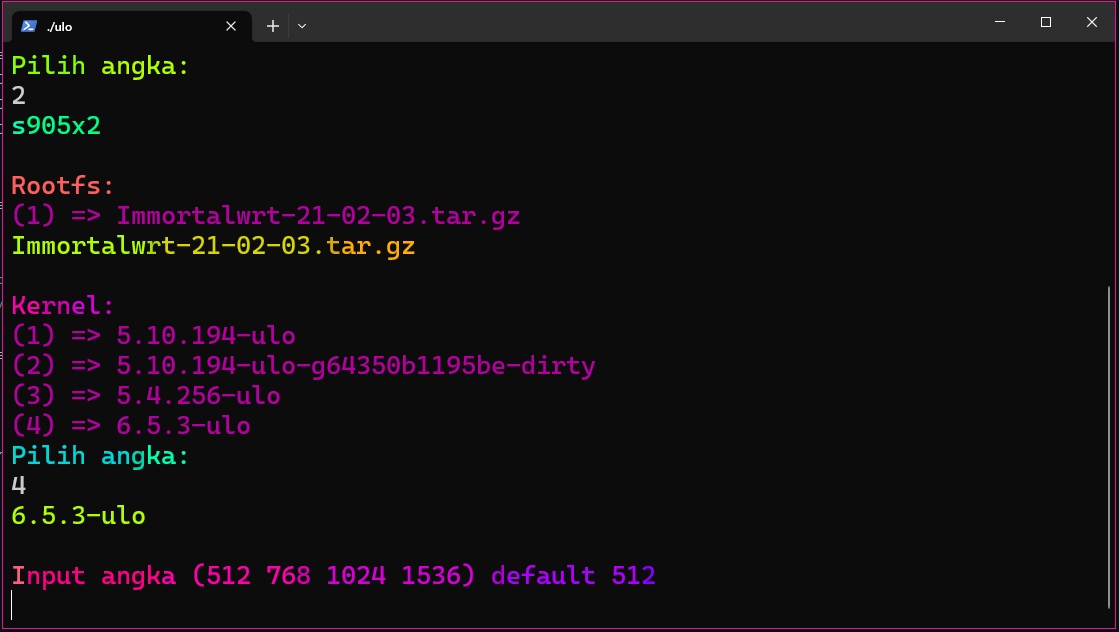
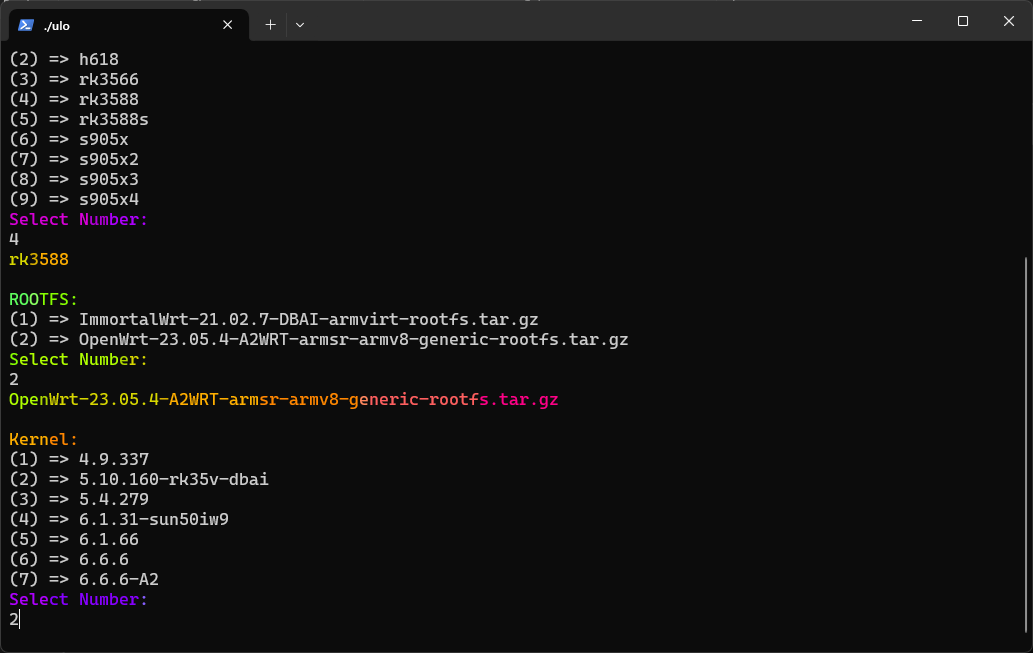
update detail info

Changed region(s): [[0.0, 0.0, 1.0, 1.0]]

diff --git a/README.md b/README.md
@@ -1,7 +1,7 @@
 # ULO Builder for OpenWRT
  ULO (Universal Linux OpenWrt) Builder 
  adalah sebuah software pembuat firmware OpenWRT untuk berbagai device dan SOC (AMLogic, ALLWinner, Rockchip)
- penggunaan sangat mudah dan lebih manusiawi, cocok untuk semua kalangan.
+ penggunaan sangat mudah dan manusiawi, cocok untuk semua kalangan.
  
 https://github.com/armarchindo/ULO-Builder/assets/7347993/1aeef098-b9ce-49df-92db-585a0eaa3e94
 
@@ -21,23 +21,27 @@ https://github.com/armarchindo/ULO-Builder/assets/7347993/1aeef098-b9ce-49df-92d
  - Directory Kernel: `core/kernel/`
  - Directory ROOTFS:  `rootfs`
  - run ULO script with superuser `sudo ./ulo`
- - select used SOC/Processor
+ - select SOC/Processor
    <p align="left">
      <img src="https://raw.githubusercontent.com/armarchindo/ULO-Builder/main/img/1.png" width="75%" />
    </p>
- - select used Kernel Version for use
+ - Select rootfs
    <p align="left">
      <img src="https://raw.githubusercontent.com/armarchindo/ULO-Builder/main/img/2.png" width="75%" />
    </p>
- - setting size of ROOTFS Partition
+ - Select kernel version
    <p align="left">
      <img src="https://raw.githubusercontent.com/armarchindo/ULO-Builder/main/img/3.png" width="75%" />
    </p>
- - Building OpenWRT/Debian Firmware
+ - Setting size of ROOTFS Partition
    <p align="left">
      <img src="https://raw.githubusercontent.com/armarchindo/ULO-Builder/main/img/4.png" width="75%" />
    </p>
- - Done, OpenWRT/Debian image at folder `out`
+   Building OpenWRT Firmware & FINISH
+   <p align="left">
+     <img src="https://raw.githubusercontent.com/armarchindo/ULO-Builder/main/img/5.png" width="75%" />
+   </p>
+ - Done, OpenWRT image at folder `out`
 
  ### ULO script information
 ```bash
@@ -47,7 +51,7 @@ Usage:
 Options:
     -h, --help
     -c, --clean
-    -k                  set the kernel (-k 5.9.16)
+    -k                  set the kernel (-k 6.6.6)
     -m                  set the device (-m s905x2)
     -s, --size=SIZE     set size (-s 768)
 ```
